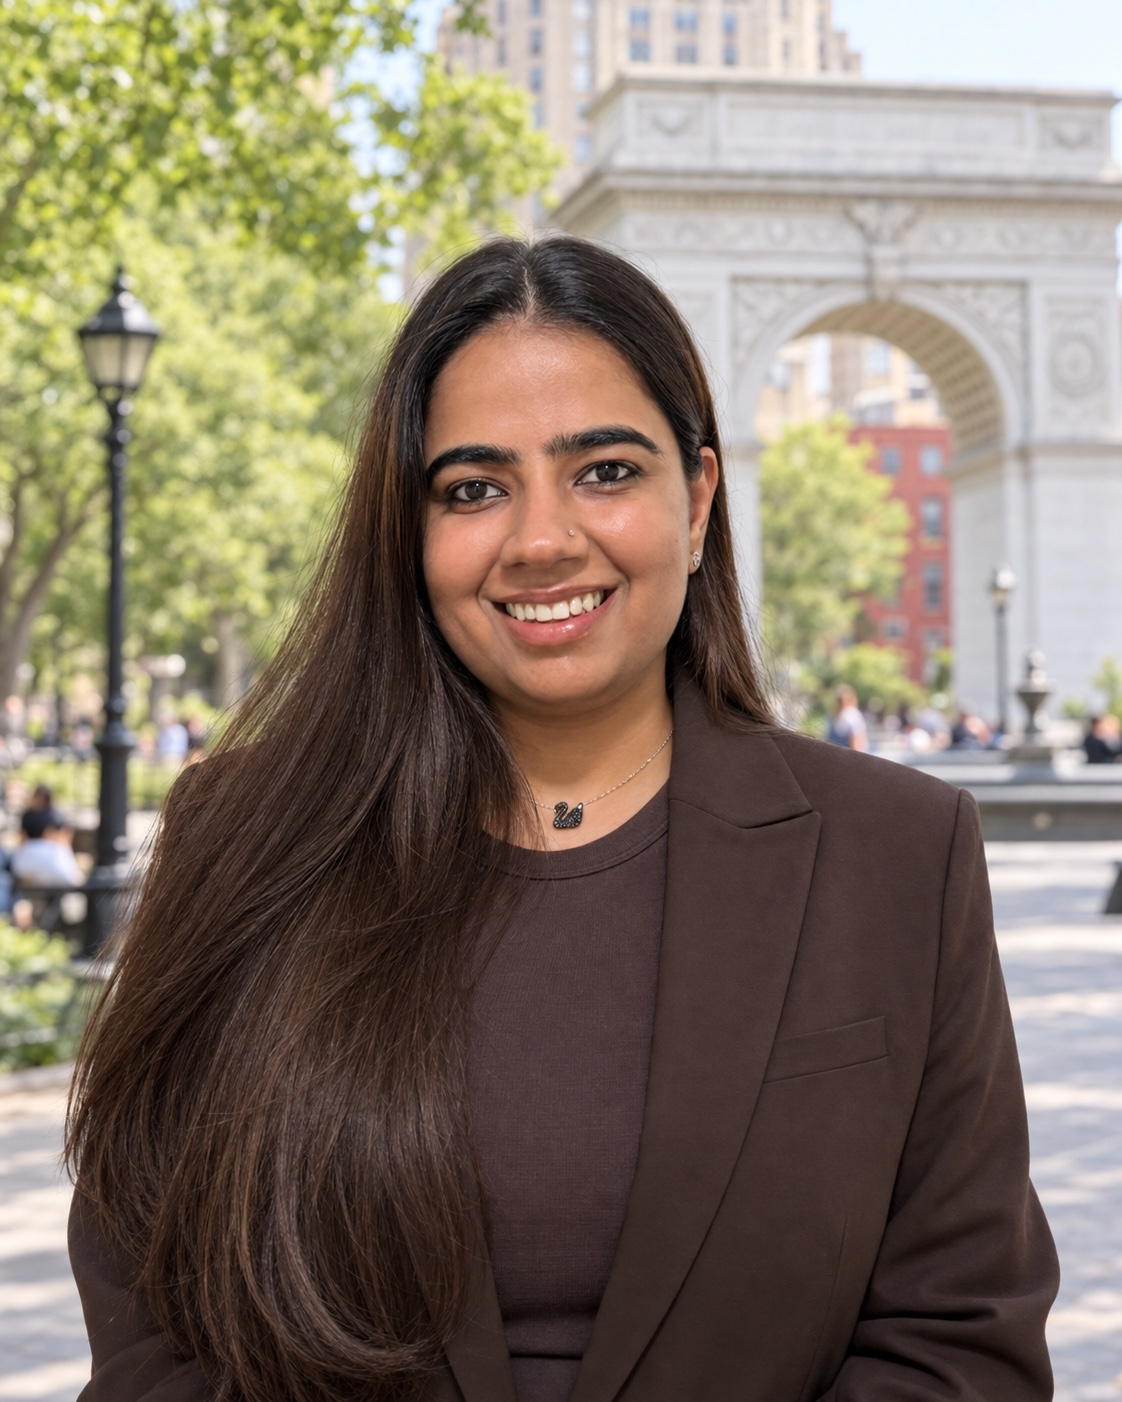
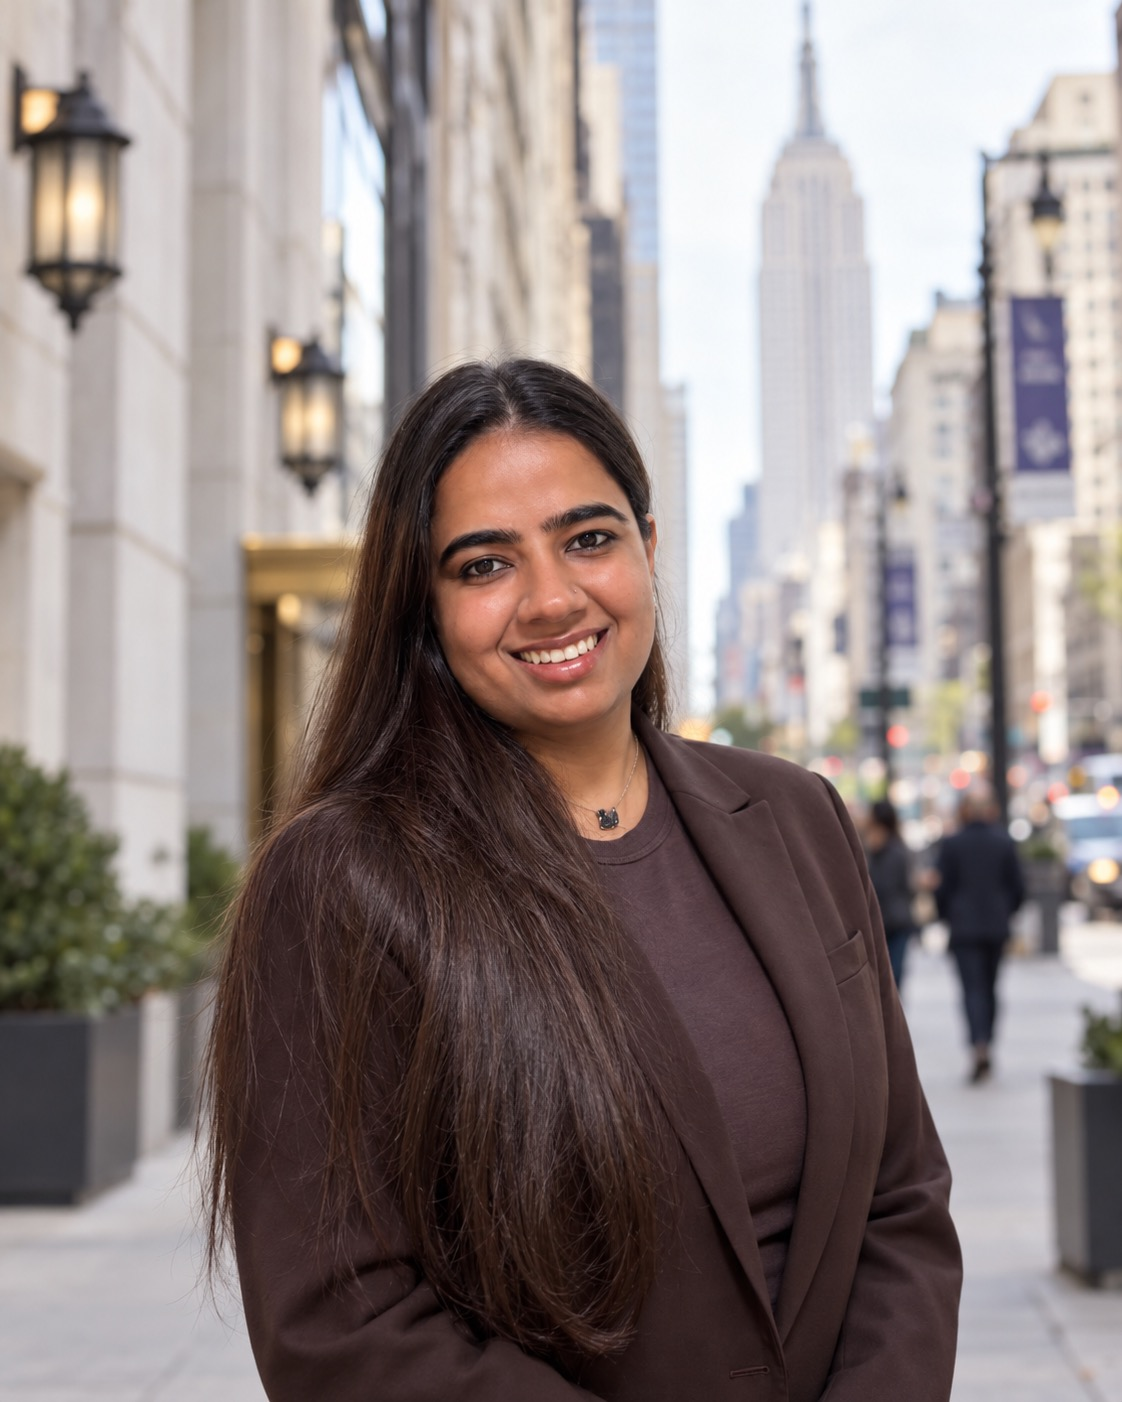
Update headshot photo

diff --git a/index.html b/index.html
@@ -12,7 +12,7 @@
 
     <!-- Sidebar -->
     <aside class="sidebar">
-      <img src="photo.jpg?v=2" alt="Ritika Verma" />
+      <img src="photo.jpg?v=3" alt="Ritika Verma" />
       <h1>Ritika Verma</h1>
       <p class="email">rv2179@nyu.edu</p>
       <p class="tagline">I like to think about contracts, information, and who gets funded.</p>
